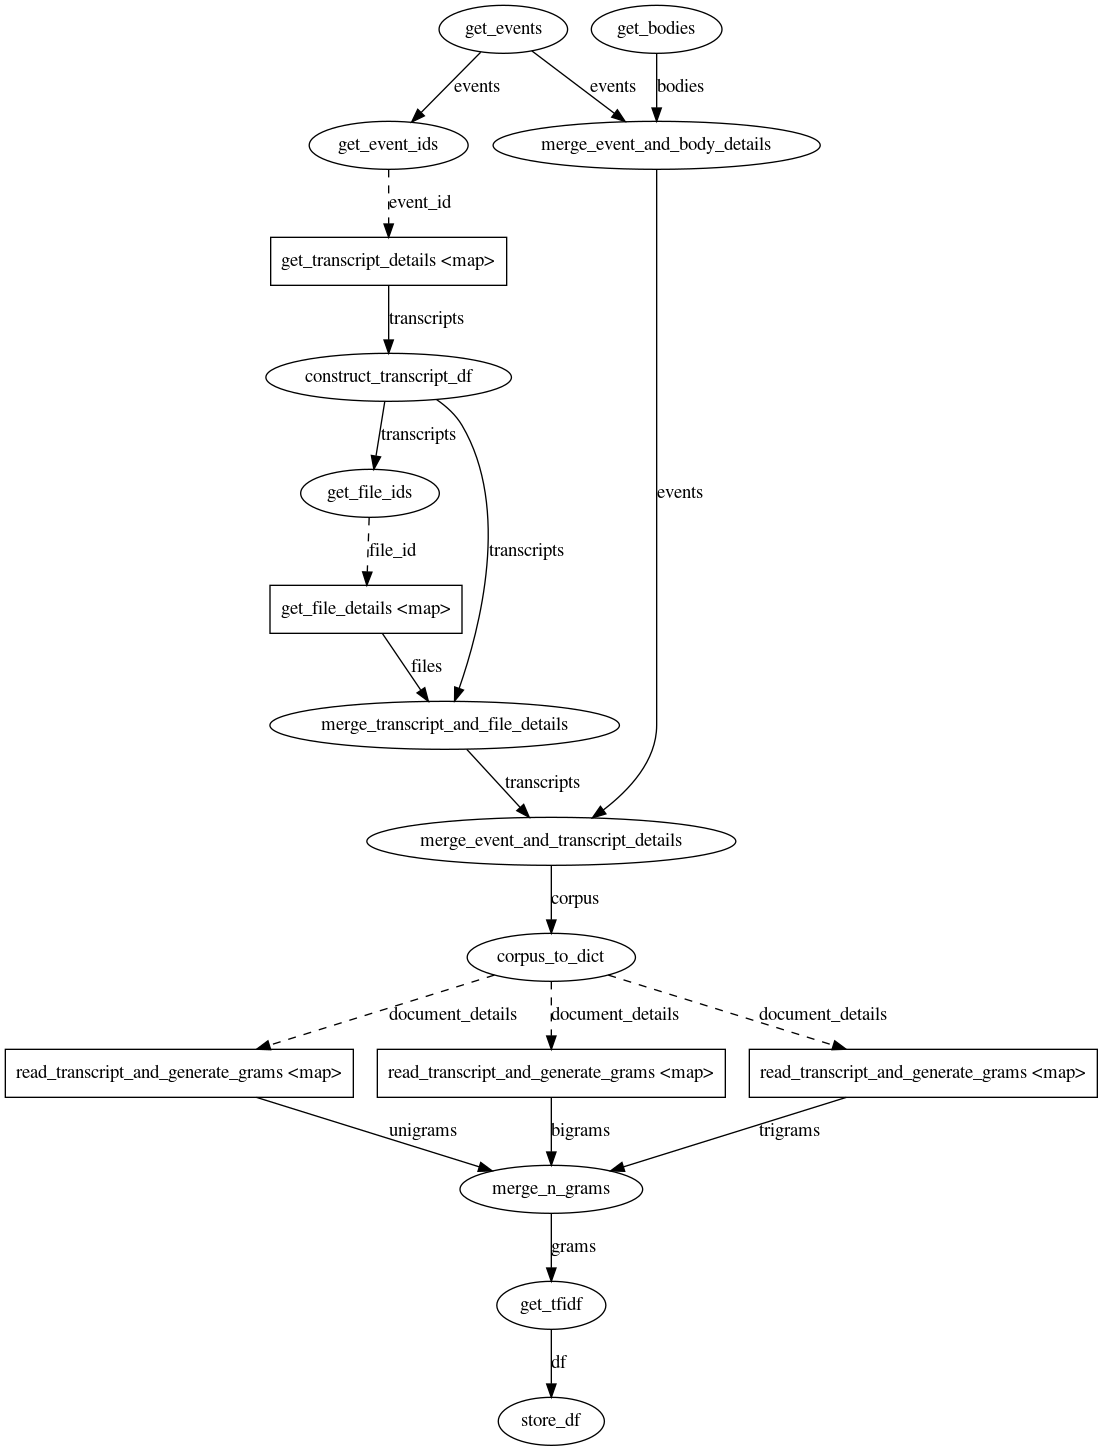
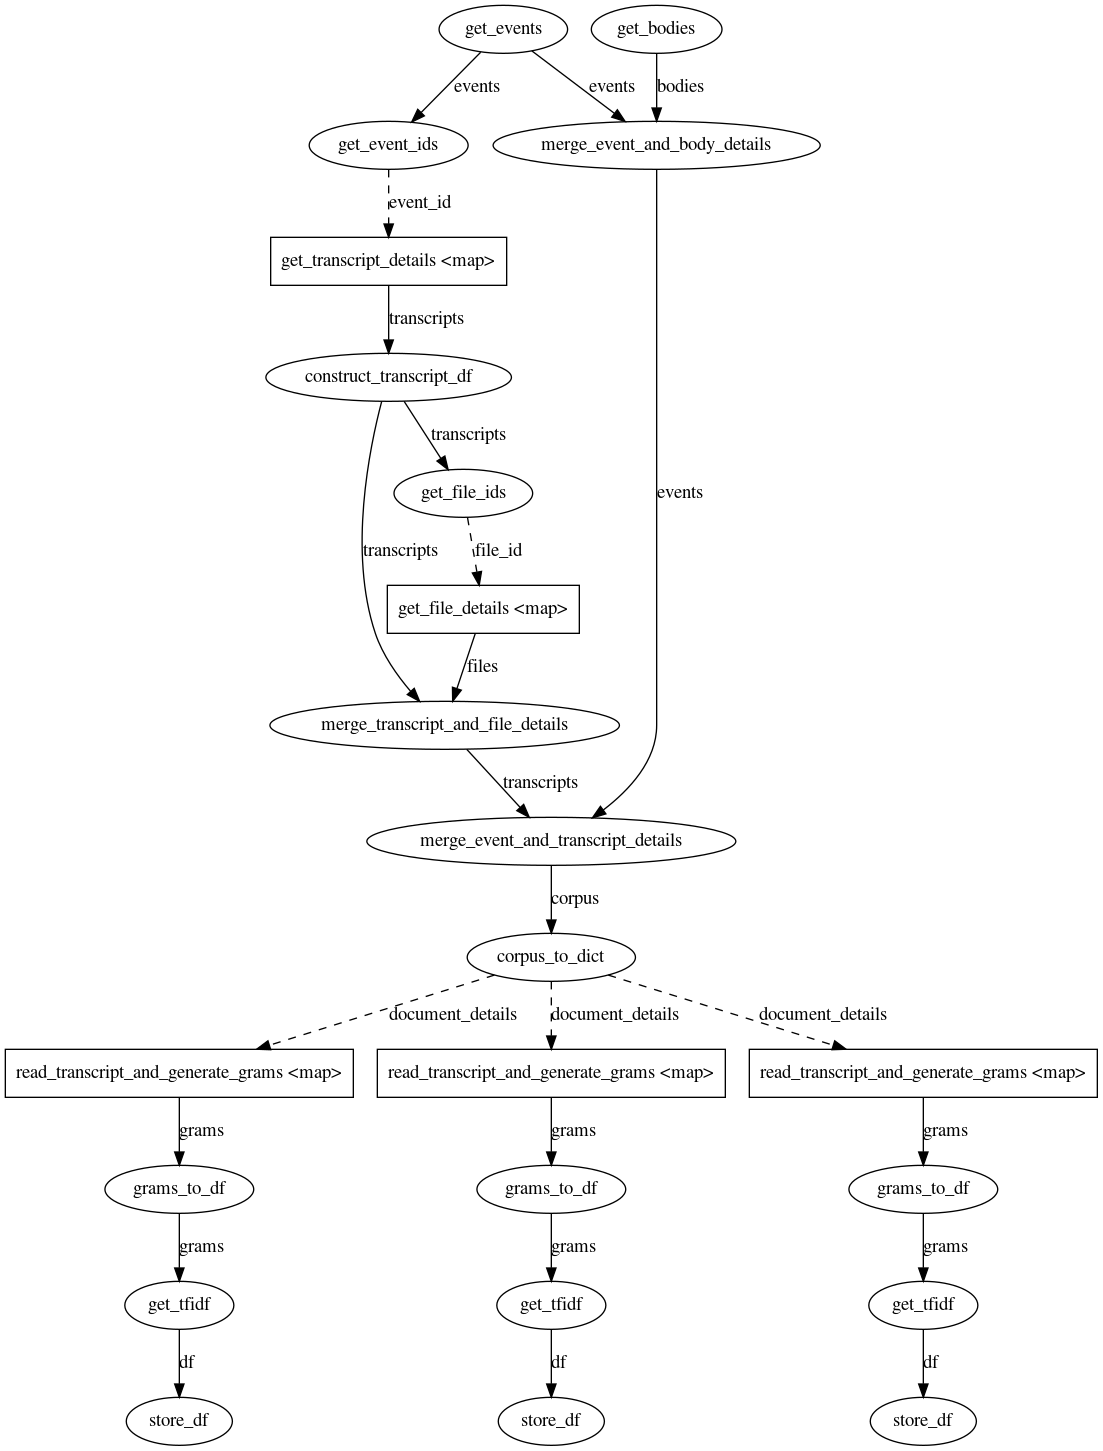
Convert back to pandas but run each gram tfidf independently

diff --git a/cdptools/pipelines/event_index_pipeline.py b/cdptools/pipelines/event_index_pipeline.py
@@ -38,7 +38,7 @@ def get_events(db: Database) -> pd.DataFrame:
     # Get transcript dataset
     return pd.DataFrame(
         db.select_rows_as_list(
-            "event", limit=int(100), order_by=("event_datetime", OrderOperators.desc)
+            "event", limit=int(50), order_by=("event_datetime", OrderOperators.desc)
         )
     )
 
@@ -193,47 +193,40 @@ def flatten(items: Iterable[Iterable]) -> List:
 
 
 @task
-def merge_n_grams(
-    unigrams: List[Dict], bigrams: List[Dict], trigrams: List[Dict]
-) -> dd.DataFrame:
-    return dd.concat([
-        pd.DataFrame(unigrams),
-        pd.DataFrame(bigrams),
-        pd.DataFrame(trigrams),
-    ]).persist()
+def grams_to_df(grams: Iterable[Iterable]) -> pd.DataFrame:
+    return pd.DataFrame(flatten(grams))
+
 
 @task
-def get_tfidf(grams: dd.DataFrame) -> dd.DataFrame:
+def get_tfidf(grams: pd.DataFrame) -> pd.DataFrame:
     # Get term frequencies
-    grams = grams.assign(tf=grams\
+    grams["tf"] = grams\
         .groupby(["event_id", "stemmed_gram"])\
         .stemmed_gram\
         .transform("count")
-    ).persist()
 
     # Drop duplicates for inverse-document-frequencies
-    grams = grams.drop_duplicates(["event_id", "stemmed_gram"]).persist()
+    grams = grams.drop_duplicates(["event_id", "stemmed_gram"])
 
     # Get idf
-    N = len(grams.event_id.unique().compute())
-    grams = grams.assign(idf=grams\
+    N = len(grams.event_id.unique())
+    grams["idf"] = grams\
         .groupby("stemmed_gram")\
         .event_id\
         .transform("count")\
         .apply(lambda df: math.log(N / df))
-    ).persist()
 
     # Store tfidf
-    grams = grams.assign(tfidf=grams.tf * grams.idf).persist()
+    grams["tfidf"] = grams.tf * grams.idf
 
     # Drop terms worth nothing
-    grams = grams[grams.tfidf != 0].persist()
+    grams = grams[grams.tfidf != 0]
 
     return grams
 
 
 @task
-def store_df(df: dd.DataFrame, filename: str) -> dd.DataFrame:
+def store_df(df: pd.DataFrame, filename: str) -> pd.DataFrame:
     df.to_csv(filename, index=False)
 
     return df
@@ -306,12 +299,20 @@ class EventIndexPipeline(Pipeline):
                 corpus, n_gram_size=unmapped(3), fs=unmapped(self.file_store)
             )
 
-            # Merge together
-            ngrams = merge_n_grams(unigrams, bigrams, trigrams)
+            # Send to dataframe for tfidf processing
+            unigrams = grams_to_df(unigrams)
+            bigrams = grams_to_df(bigrams)
+            trigrams = grams_to_df(trigrams)
 
             # Get tfidf
-            tfidf = get_tfidf(ngrams)
-            tfidf = store_df(tfidf, "tfidf/*.csv")
+            unigrams_tfidf = get_tfidf(unigrams)
+            bigrams_tfidf = get_tfidf(bigrams)
+            trigrams_tfidf = get_tfidf(trigrams)
+
+            # Store
+            store_df(unigrams_tfidf, "unigrams_tfidf.csv")
+            store_df(bigrams_tfidf, "bigrams_tfidf.csv")
+            store_df(trigrams_tfidf, "trigrams_tfidf.csv")
 
         # Configure dask config
         # dask.config.set(
